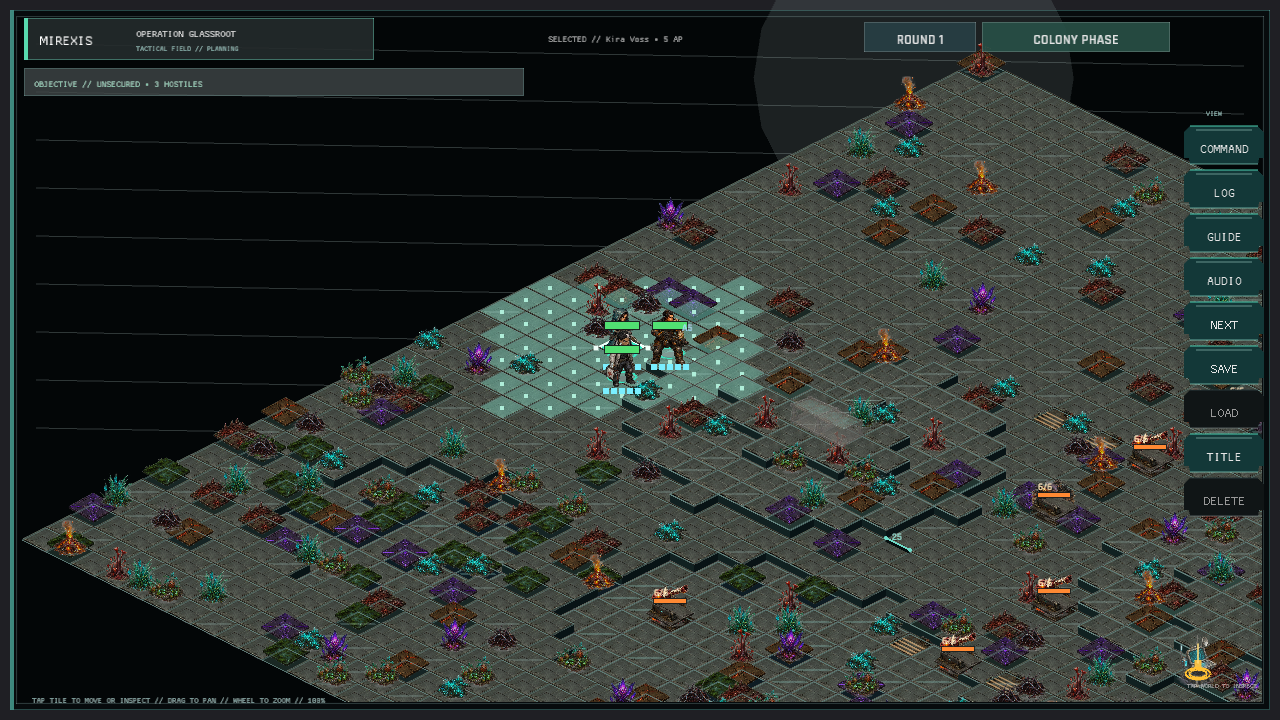
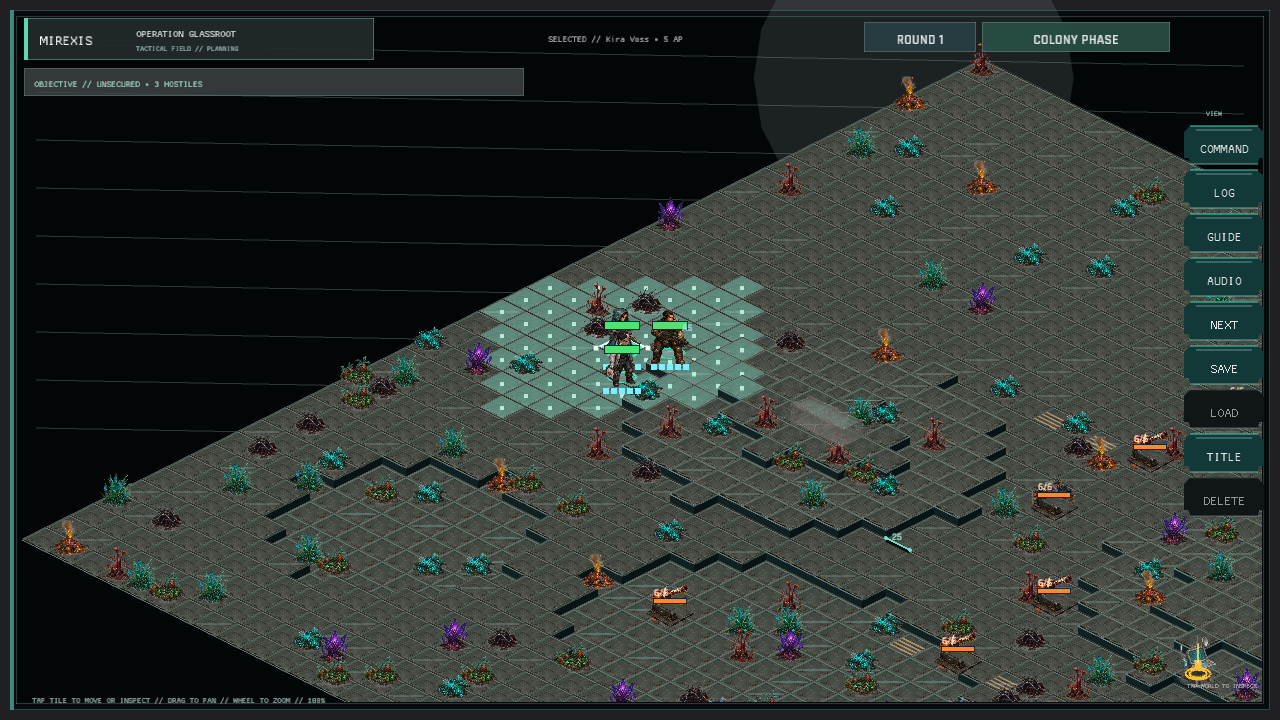
The battlefield lays every slab flush with the mire (continuous tactical ground surface)
Open and blocked map squares still selected complete raised cells from the terrain atlas. Those slabs carried their own thickness and bases, so faction pads, marsh surfaces, rubble, and wall cells appeared to hover above the real map elevation; blocked squares could also stack that wall cell beneath a separate obstacle prop.

Render the same grounded base cell beneath every tactical square and leave variation to true flora cutouts, obstacle props, projected movement-cost hatching, and the map elevation system. This removes the raised slab selection path and its obsolete tint logic while keeping gameplay geometry unchanged.

Refresh and inspect the gameplay and zoomed variant captures. Verified with all 512 unit tests, both integration checks, the 109-scene capture audit, formatting and source-size gates, and the full Windows/WebGL Preview publisher.

diff --git a/src/tactical_map_ui.rs b/src/tactical_map_ui.rs
@@ -3,8 +3,8 @@
 use crate::data::{ObjectiveKind, Team};
 use crate::first_hour::{FirstHourProgress, TacticalLesson};
 use crate::grid_ui::{
-    CameraInsets, GridView, WorldCamera, CANOPY_ART_PIVOT, CANOPY_ART_SCALE, STRUCTURE_ART_PIVOT,
-    STRUCTURE_ART_SCALE, TERRAIN_ART_PIVOT, TERRAIN_ART_SCALE,
+    CameraInsets, GridView, WorldCamera, CANOPY_ART_PIVOT, CANOPY_ART_SCALE, TERRAIN_ART_PIVOT,
+    TERRAIN_ART_SCALE,
 };
 use crate::state::{GameSession, ObjectiveState};
 use crate::ui::{draw_ui_text_ex, TargetingView, UiAction, UiContext};
@@ -256,21 +256,14 @@ fn draw_terrain_tile(
     };
     draw_diamond_fill(top, top_color);
 
-    if let Some(atlas_index) = terrain_art_index(ctx, position, blocked, terrain_cost) {
-        let (scale, pivot) = if blocked {
-            (STRUCTURE_ART_SCALE, STRUCTURE_ART_PIVOT)
-        } else {
-            (TERRAIN_ART_SCALE, TERRAIN_ART_PIVOT)
-        };
-        let art_rect = view.art_bounds(position, scale, pivot);
-        ctx.visuals.draw_atlas_cell(
-            ctx.assets,
-            &ctx.visuals.terrain,
-            atlas_index,
-            art_rect,
-            tactical_terrain_tint(atlas_index, blocked),
-        );
-    }
+    let art_rect = view.art_bounds(position, TERRAIN_ART_SCALE, TERRAIN_ART_PIVOT);
+    ctx.visuals.draw_atlas_cell(
+        ctx.assets,
+        &ctx.visuals.terrain,
+        0,
+        art_rect,
+        Color::new(0.92, 0.97, 0.94, 1.0),
+    );
 
     draw_surface_seams(top, position, blocked, elevation);
 
@@ -369,18 +362,6 @@ fn draw_cliff_face(
     draw_line(a.x, a.y, b.x, b.y, 1.5, Color::new(0.30, 0.58, 0.52, 0.60));
 }
 
-fn tactical_terrain_tint(index: usize, blocked: bool) -> Color {
-    if blocked {
-        return Color::new(1.0, 0.93, 0.82, 1.0);
-    }
-    match index {
-        8 => Color::new(0.62, 0.92, 0.76, 1.0),
-        10 => Color::new(1.0, 0.78, 0.52, 1.0),
-        11 => Color::new(0.84, 0.68, 1.0, 1.0),
-        _ => Color::new(0.92, 0.97, 0.94, 1.0),
-    }
-}
-
 fn draw_surface_seams(top: [Vec2; 4], position: TilePos, blocked: bool, elevation: i8) {
     if blocked {
         return;
@@ -398,39 +379,6 @@ fn draw_surface_seams(top: [Vec2; 4], position: TilePos, blocked: bool, elevatio
     };
     draw_line(inset[3].x, inset[3].y, center.x, center.y, 1.0, color);
     draw_line(center.x, center.y, inset[1].x, inset[1].y, 1.0, color);
-}
-
-fn terrain_art_index(
-    ctx: &UiContext<'_>,
-    position: TilePos,
-    blocked: bool,
-    cost: u8,
-) -> Option<usize> {
-    let pattern =
-        (position.x as u32).wrapping_mul(73_856_093) ^ (position.y as u32).wrapping_mul(19_349_663);
-    if blocked {
-        return Some(3);
-    }
-    if cost > 1 {
-        return Some(if pattern % 3 == 0 { 8 } else { 1 });
-    }
-    if position.y > 24 && pattern % 17 == 0 {
-        return Some(8);
-    }
-    if pattern % 29 == 0 {
-        return Some(10);
-    }
-    if pattern % 37 == 0 {
-        return Some(11);
-    }
-    if pattern.is_multiple_of(31) {
-        Some(
-            ctx.visuals
-                .faction_terrain_cell(&ctx.mission.hostile_faction),
-        )
-    } else {
-        Some(0)
-    }
 }
 
 fn draw_tile_contents(ctx: &UiContext<'_>, view: GridView, position: TilePos) {

diff --git a/src/tactical_map_ui/tests.rs b/src/tactical_map_ui/tests.rs
@@ -1,5 +1,6 @@
 use super::*;
 use crate::first_hour::{FirstHourProgress, FirstHourStage, TacticalLesson};
+use crate::grid_ui::{STRUCTURE_ART_PIVOT, STRUCTURE_ART_SCALE};
 use crate::state::GameSession;
 
 #[test]

diff --git a/docs/verification/FINAL_CAPTURE_INVENTORY.md b/docs/verification/FINAL_CAPTURE_INVENTORY.md
@@ -113,7 +113,7 @@ Manifest: `scripts/capture_ui.ps1`
[8 lines of base64/hex data omitted]
@@ -146,7 +146,7 @@ Manifest: `scripts/capture_ui.ps1`
[8 lines of base64/hex data omitted]
